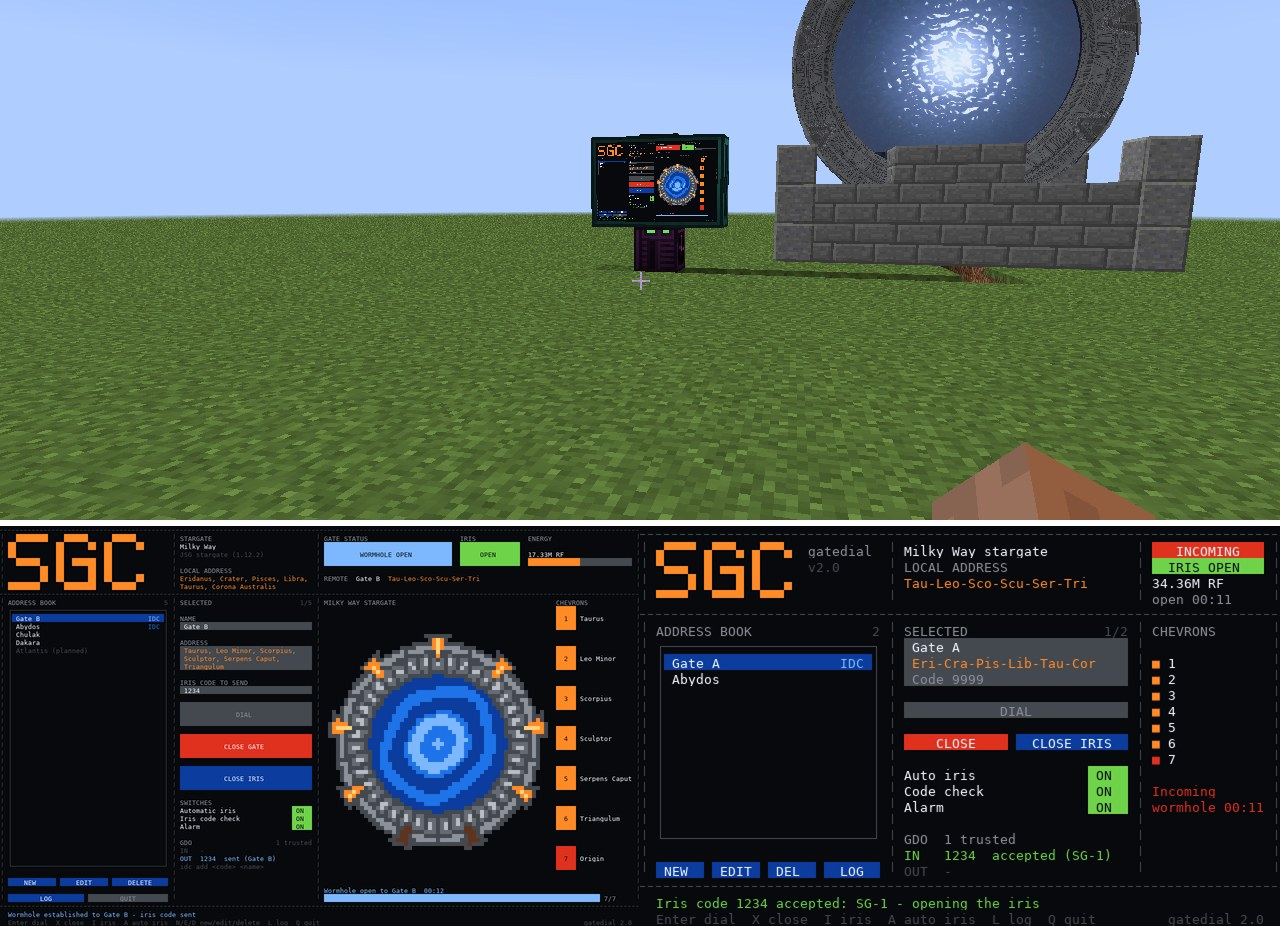
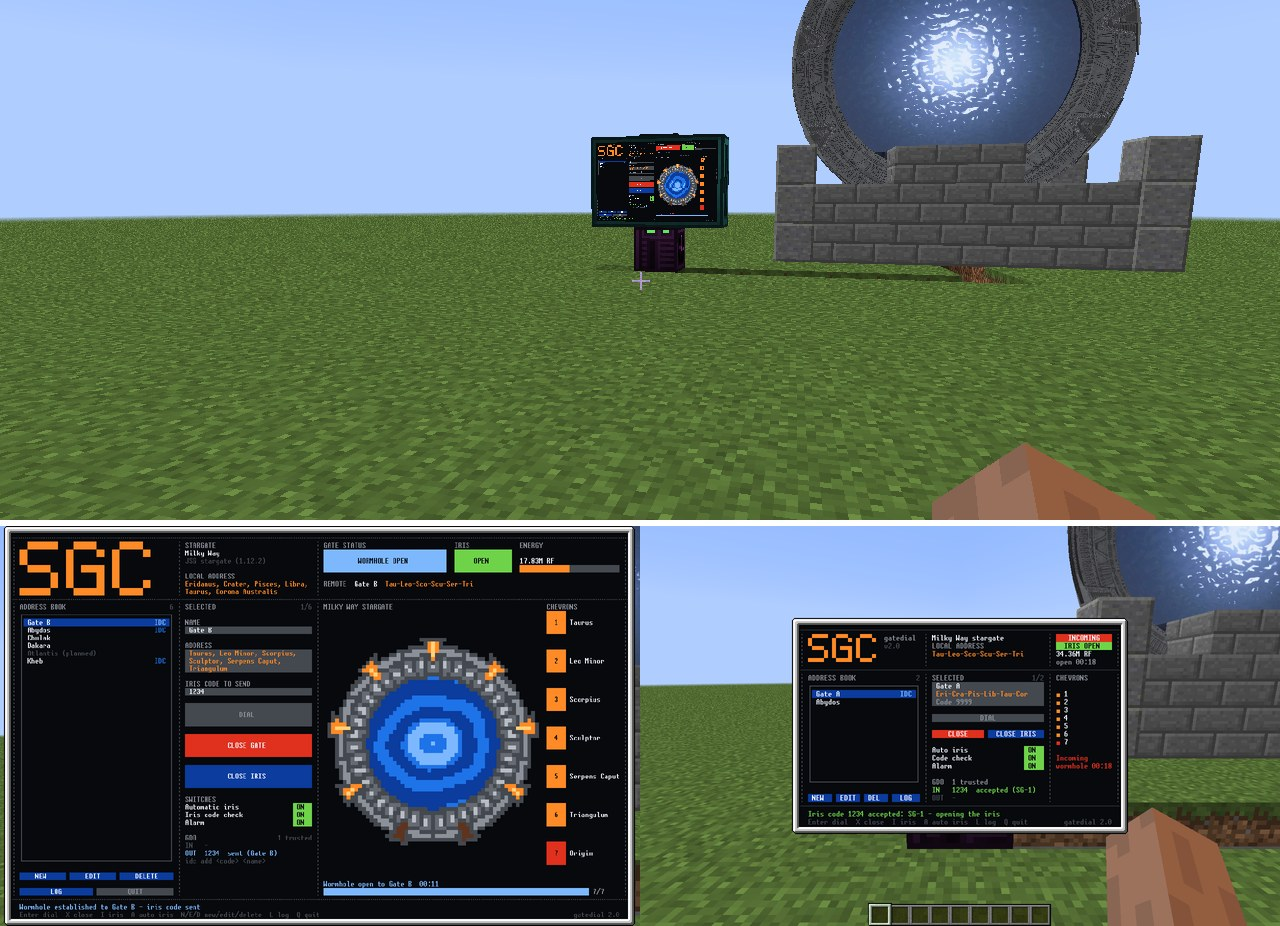
gatedial console tested with the player's keyboard and mouse
On computer A's open screen in the game: arrow keys and A, clicking the
switch and an address, NEW and typing a whole address, Enter to dial,
and clicking CLOSE GATE, LOG and BACK. The README picture is now all
game screenshots.

Claude-Session: https://claude.ai/code/session_01YFRZA1iYRhefev2hx9q999

Changed region(s): [[0.0, 0.5443, 1.0, 1.0]]

diff --git a/OpenComputers/README.md b/OpenComputers/README.md
@@ -18,7 +18,7 @@ On a tier 2 or tier 3 screen, gatedial 2.0 opens on the **console**: a control s
 
 ![The console in a Minecraft 1.12.2 world](../imgs/OpenComputersConsoleInGame.jpg)
 
-*In a Minecraft 1.12.2 world with OpenComputers 1.8.10 and Just Stargate Mod 4.11.2.8. Top: gate A with a wormhole open, and its computer's 3x2 tier 3 screen showing the console. Bottom left: that screen while A's wormhole is open to gate B, with code 1234 sent. Bottom right: gate B's tier 2 screen at the same moment: its automatic iris closed as the call came in, then the code was accepted and the iris opened. The two bottom pictures are the computers' screens as they were in the game, read back from their graphics cards and drawn here in a different font.*
+*Screenshots from a Minecraft 1.12.2 game with OpenComputers 1.8.10 and Just Stargate Mod 4.11.2.8. Top: gate A with a wormhole open, and its computer's 3x2 tier 3 screen showing the console. Bottom left: that screen opened by the player, with the wormhole open to gate B and code 1234 sent. Bottom right: gate B's tier 2 screen opened during the same call. B's automatic iris closed as the call came in, then the code was accepted and the iris opened.*
 
 The gatedial 1.0 screen is still there: set `screen = "classic"` (see [Settings](#settings)).
 
@@ -140,7 +140,13 @@ At the top of `gatedial.lua`:
 - **The setup.** Two JSG Milky Way gates were spawned with JSG's own `structurespawn` command, each with a creative iris in OC mode. Each gate was cabled to a creative computer case running OpenOS from its hard disk:
   - computer A, with a 3x2 tier 3 screen (160x50);
   - computer B, with a tier 2 screen (80x25).
-- **How it was driven.** A small test program on each computer ran gatedial and sent it key presses and screen taps as signals (`computer.pushSignal`, the same signals a keyboard and screen send). It also read the screen back from the graphics card. A player client joined the world for the pictures. JSG's autoclose was off, and OpenComputers' power use was turned off.
+- **How it was driven.** A small test program on each computer ran gatedial. For most of the scenarios it sent key presses and screen taps as signals (`computer.pushSignal`, the same signals a keyboard and screen send) and read the screen back from the graphics card. A player client was joined to the world. JSG's autoclose was off, and OpenComputers' power use was turned off.
+- **With the player's keyboard and mouse.** The player opened computer A's screen. Then, with real input:
+  - the Down key moved the selection, and A switched the automatic iris off;
+  - clicking the switch turned it on again, and clicking an address selected it;
+  - clicking NEW and typing a name, an address and an iris code added the address to the book;
+  - Up and Enter dialed gate B;
+  - clicking CLOSE GATE closed the wormhole, and LOG and BACK opened and closed the gate log.
 - **What worked.** The console drew on both screens, with the gate picture, the chevron boxes and the energy bar on tier 3.
   - A dialed B: the chevrons lit one by one, and the wormhole opened. A sent code 1234 through JSG's GDO.
   - B's automatic iris closed as the call came in. B accepted the code (`IN 1234 accepted (SG-1)`) and opened its iris.
@@ -151,7 +157,7 @@ At the top of `gatedial.lua`:
   - An open outgoing wormhole showed "REMOTE unknown gate". JSG 1.12.2 reads idle for a moment before the wormhole opens, which cleared the address being dialed. A's console now shows `REMOTE Gate B` and "Wormhole open to Gate B".
   - On tier 2, the status badge cut "INCOMING WORMHOLE" short and the local address ended in "...". They now read INCOMING and `Tau-Leo-Sco-Scu-Ser-Tri`.
   - The screen buffer used too much memory. It now takes about 400 KB less on tier 3.
-- **Not tried in the game.** The console on SGCraft and LanteaCraft gates (gatedial 1.0's gate code for them is unchanged), and typing on the keyboard with the screen open. The test program sent the same key signals instead.
+- **Not tried in the game.** The console on SGCraft and LanteaCraft gates. gatedial 1.0's gate code for them is unchanged.
 
 **In a Minecraft 1.12.2 world** (Forge 14.23.5.2860) with OpenComputers 1.8.10 and Just Stargate Mod 4.11.2.8. Computers were cabled to the bases of two JSG Milky Way gates:
 

diff --git a/README.md b/README.md
@@ -58,7 +58,7 @@
  - Iris codes and the gate log, through JSG's own GDO on JSG gates
  - Shares its address book, iris codes and gate log files with the ComputerCraft programs
  - Tested in Minecraft 1.12.2 worlds with OpenComputers 1.8.10 and JSG or SGCraft 2.3.0, and in a 1.7.10 world with SGCraft 1.13.3: dialing, iris codes and the iris
- - The console tested in a 1.12.2 world with JSG 4.11.2.8, on tier 3 and tier 2 screens: dialing both ways, the automatic iris, iris codes accepted and rejected, and the buttons by touch
+ - The console tested in a 1.12.2 world with JSG 4.11.2.8, on tier 3 and tier 2 screens: dialing both ways, the automatic iris, iris codes accepted and rejected, and the player's keyboard and mouse on the open screen
 
 ![The gatedial console in a Minecraft 1.12.2 world](./imgs/OpenComputersConsoleInGame.jpg)
 
